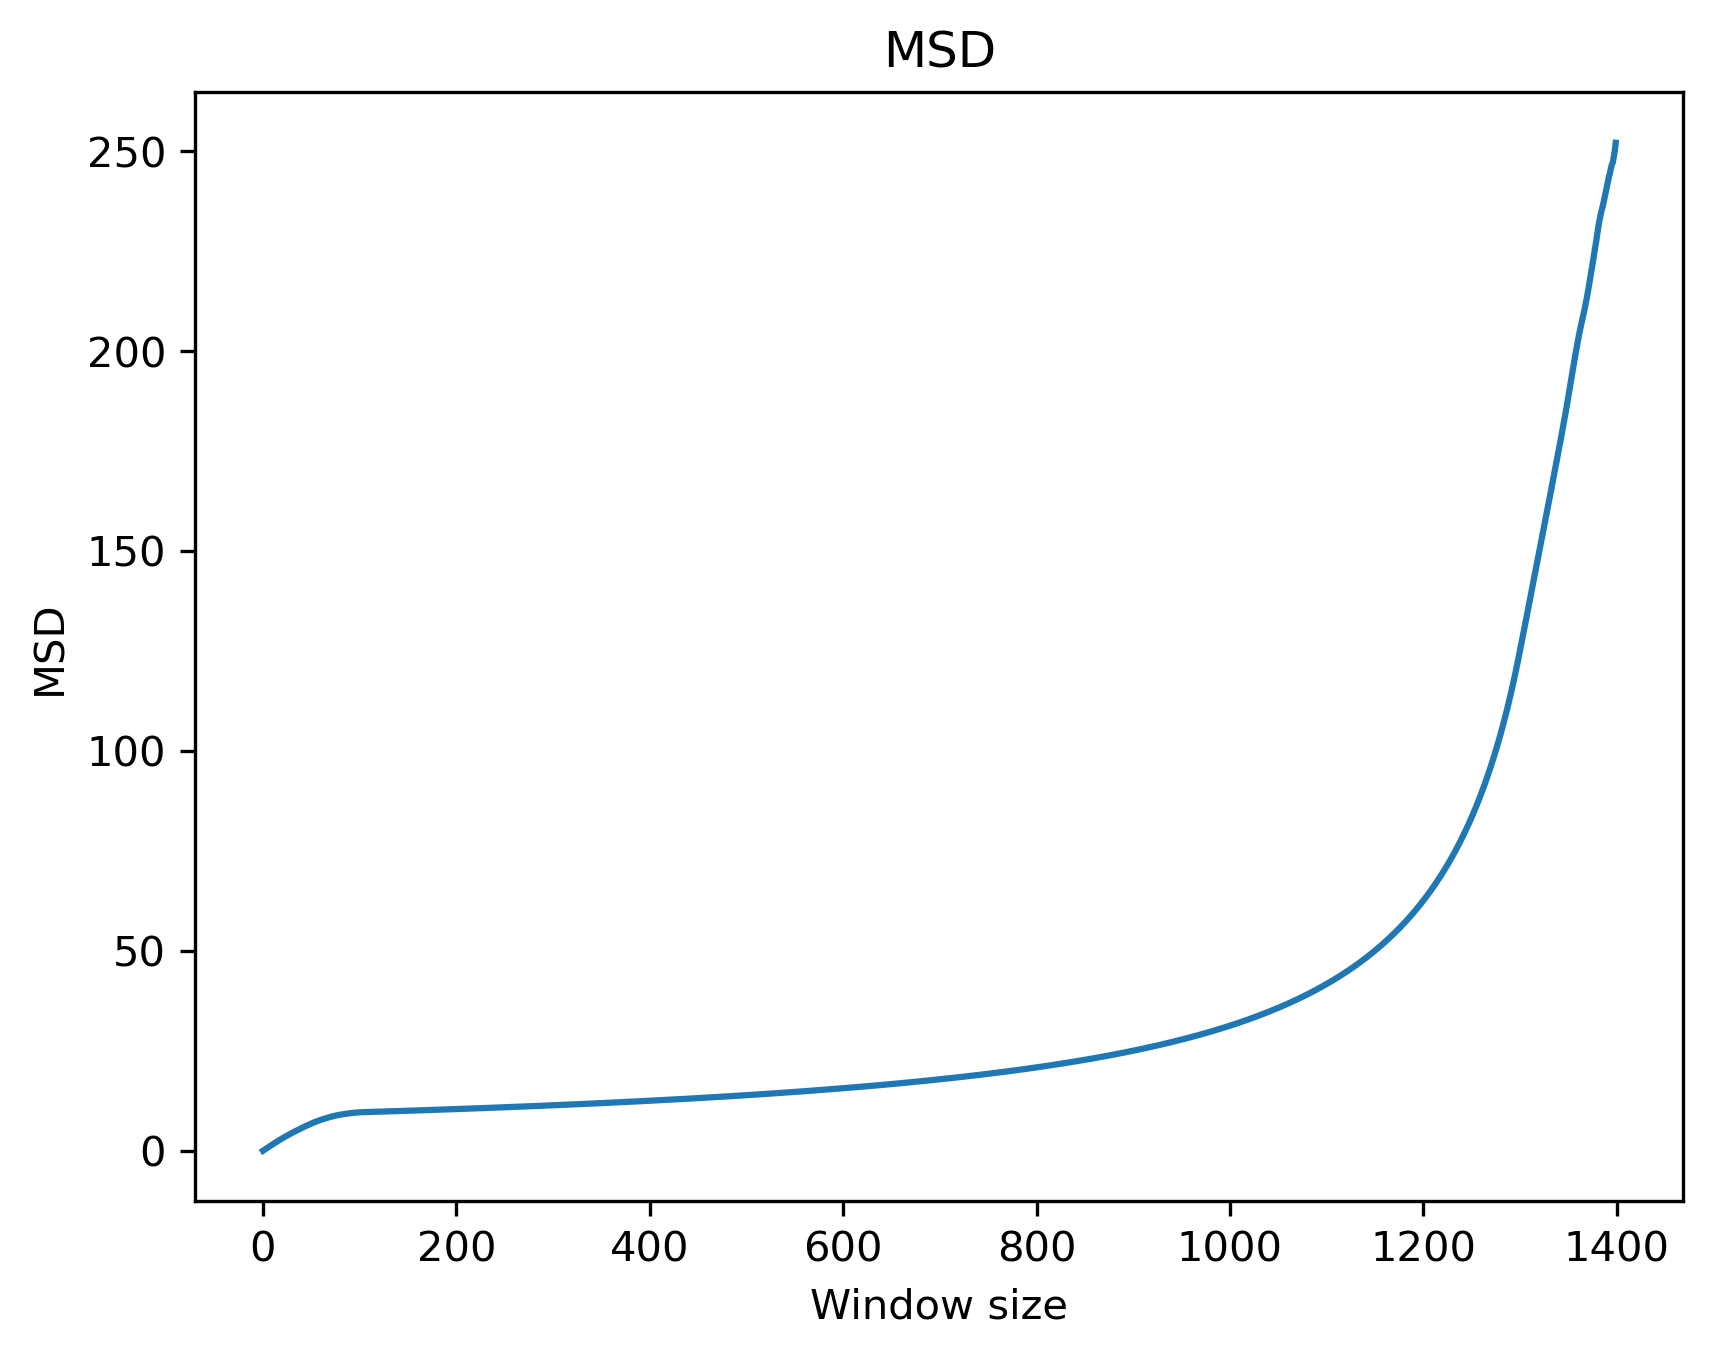
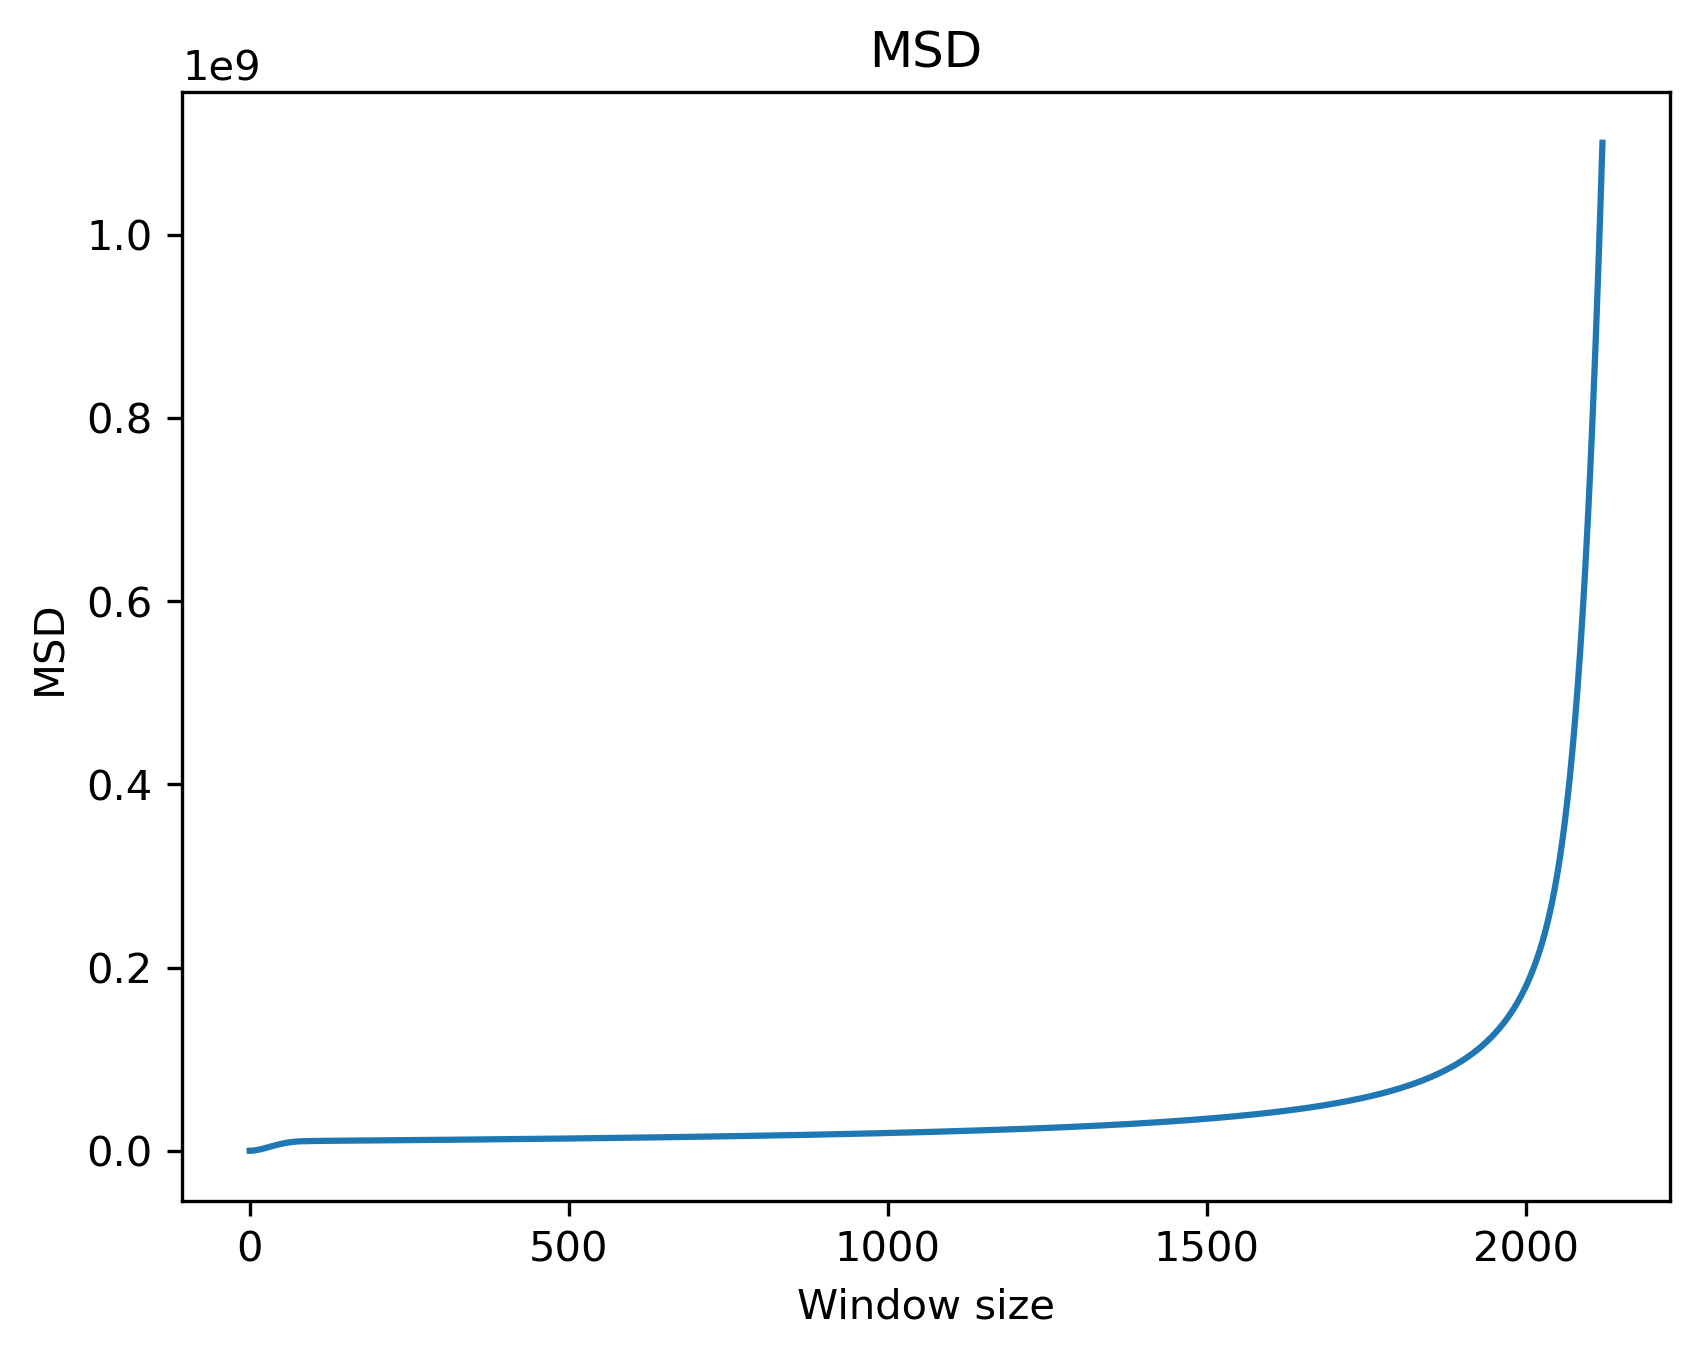
started validation code

diff --git a/init_solvent.py b/init_solvent.py
@@ -8,6 +8,76 @@ from sim import render
 from init import SOLUTE_main
 
 
+class VicsekAlignmentForce(hoomd.md.force.Custom):
+    def __init__(self, nlist, r_cut, f_a, active_type_name="A"):
+        super().__init__(aniso=False)
+        self.nlist = nlist
+        self.r_cut = r_cut
+        self.f_a = f_a
+        self.active_type_name = active_type_name
+
+    def set_forces(self, timestep):
+        state = self._simulation.state
+        
+        # Cache the ID on the class instance so we only look it up once (performance tip!)
+        if not hasattr(self, "_active_type_id"):
+            if self.active_type_name in state.particle_types:
+                self._active_type_id = state.particle_types.index(self.active_type_name)
+            else:
+                self._active_type_id = None
+                
+        if self._active_type_id is None:
+            return
+
+        # Open context managers for snapshot, forces, AND the neighbor list
+        with state.cpu_local_snapshot as snap, \
+             self.cpu_local_force_arrays as arrays, \
+             self.nlist.cpu_local_nlist_arrays as nlist_arrays:
+            
+            vel = snap.particles.velocity
+            typeids = snap.particles.typeid
+            
+            # Initialize all force arrays to 0 first
+            arrays.force[:] = 0.0
+            arrays.torque[:] = 0.0
+            arrays.potential_energy[:] = 0.0
+            arrays.virial[:] = 0.0
+
+            active_indices = numpy.where(typeids == self._active_type_id)[0]
+            if len(active_indices) == 0:
+                return
+
+            # Access the correct neighbor list arrays
+            head_list = nlist_arrays.head_list
+            n_neigh = nlist_arrays.n_neigh
+            nlist = nlist_arrays.nlist
+
+            # Compute Vicsek alignment only for the active particle indices
+            for i in active_indices:
+                # Get the slice indices for particle i's neighbors
+                start = head_list[i]
+                end = start + n_neigh[i]
+                
+                # Fetch the exact neighbors for particle i
+                idx_neighbors = nlist[start:end]
+                
+                # Filter out ghost particles (indices beyond the local velocity array size)
+                idx_neighbors = idx_neighbors[idx_neighbors < len(vel)]
+
+                # The Vicsek rule starts with the particle's own velocity
+                v_sum = vel[i].copy()
+                
+                if len(idx_neighbors) > 0:
+                    v_sum += numpy.sum(vel[idx_neighbors], axis=0)
+
+                v_mag = numpy.linalg.norm(v_sum)
+                if v_mag > 0:
+                    n_hat = v_sum / v_mag
+                    # Apply the force vector to the active index position
+                    arrays.force[i] = self.f_a * n_hat
+
+
+
 def IC_SOLVENT():
     with gsd.hoomd.open("./Frames/Active_IC.gsd") as traj:
         snapshot = hoomd.Snapshot.from_gsd_frame(traj[0], hoomd.communicator.Communicator())
@@ -20,10 +90,9 @@ def IC_SOLVENT():
     assert box.Lx == box.Ly == box.Lz, "The simulation box is not cubic!"
     L = box.Lx  # Single side length of the cube
 
-    snapshot.mpcd.types = ["A"]
+    snapshot.mpcd.types = ["S"]
     snapshot.mpcd.N = numpy.round((10/sigma**3) * box.volume).astype(int)
 
-# Generate uniform positions inside a cube centered at (0,0,0) from -L/2 to L/2
     snapshot.mpcd.position[:] = rng.uniform(
         low=-L / 2, high=L / 2, size=(snapshot.mpcd.N, 3)
     )
@@ -33,7 +102,7 @@ def IC_SOLVENT():
     vel -= numpy.mean(vel, axis=0)
     snapshot.mpcd.velocity[:] = vel
     
-    return snapshot,snapshot.particles.position,snapshot.particles.orientation,snapshot.mpcd.N,L
+    return snapshot,snapshot.particles.position,snapshot.particles.orientation,snapshot.mpcd.N,L,sigma
 
 
 def IO_SOLVENT(pos,orient,L)->None:
@@ -48,7 +117,7 @@ def IO_SOLVENT(pos,orient,L)->None:
     
     
     frame.particles.typeid = [0] * N_solute
-    frame.particles.types = ["A"]
+    frame.particles.types = ["S"]
     frame.configuration.box = [L, L, L, 0, 0, 0]
     
    
@@ -60,7 +129,7 @@ def IO_SOLVENT(pos,orient,L)->None:
 
 
 def SOLVENT_main():
-    snap,pos,orient,N,L = IC_SOLVENT()
+    snap,pos,orient,N,L,sigma = IC_SOLVENT()
     IO_SOLVENT(pos,orient,L)
     
     
@@ -76,11 +145,37 @@ def SOLVENT_main():
         simulation.operations.integrator = integrator
 
         cell = hoomd.md.nlist.Cell(buffer=0.4)
+
+        # 1. ForceShiftedLJ Force Setup
+        fslj = hoomd.md.pair.ForceShiftedLJ(nlist=cell, default_r_cut=1.5)
+        fslj.params[("A", "A")] = dict(epsilon=1.0, sigma=1.0)
+        # Add dummy params for the disabled pairs
+        fslj.params[("A", "S")] = dict(epsilon=0.0, sigma=0.0)
+        fslj.params[("S", "S")] = dict(epsilon=0.0, sigma=0.0)
+        fslj.r_cut[("A", "S")] = False
+        fslj.r_cut[("S", "S")] = False
+        integrator.forces.append(fslj)
+        
+        # 2. WCA (Solute-Solvent) Force Setup
         wca = hoomd.md.pair.LJ(nlist=cell)
-        wca.params[("A", "A")] = dict(epsilon=1.0, sigma=1.0)
-        wca.r_cut[("A", "A")] = 2 ** (1.0 / 6.0)
+        wca.params[("A", "S")] = dict(epsilon=1.0, sigma=1.0)
+        # Add dummy params for the disabled pairs
+        wca.params[("A", "A")] = dict(epsilon=0.0, sigma=0.0)
+        wca.params[("S", "S")] = dict(epsilon=0.0, sigma=0.0)
+        wca.r_cut[("A", "S")] = 2 ** (1.0 / 6.0)
+        wca.r_cut[("A", "A")] = False
+        wca.r_cut[("S", "S")] = False
         integrator.forces.append(wca)
 
+        # 3. Custom Force Setup
+        vicsek_force = VicsekAlignmentForce(
+            nlist=cell, 
+            r_cut=1.5, 
+            f_a=2.0, 
+            active_type_name="A" 
+        )
+        integrator.forces.append(vicsek_force)
+        
         nve = hoomd.md.methods.ConstantVolume(filter=hoomd.filter.All())
         integrator.methods.append(nve)
 

diff --git a/clustering.py b/clustering.py
@@ -1,0 +1,61 @@
+# script1.py
+import time
+import gsd.hoomd
+import os
+import freud
+
+def LOAD():
+    trajectory_path = 'sim_finish.gsd'
+    
+    # Check physical file traits first
+    print(f"File physical path check: {os.path.abspath(trajectory_path)}") ##if block exit here
+    print(f"Does it exist? {os.path.exists(trajectory_path)}") ##if block here to exit
+    if os.path.exists(trajectory_path):
+        print(f"File Size: {os.path.getsize(trajectory_path)} bytes")
+
+    try:
+        with gsd.hoomd.open(name=trajectory_path, mode='r') as traj:
+           ##checks to ensure proper loading
+            print(f"Success opening file! Total frames found: {len(traj)}")
+            
+            if len(traj) == 0:
+                print("Error: Trajectory is empty.")
+                return 400
+                
+            frame = traj[-1]
+            print("--- FRAME DATA ---")
+            
+            
+            # Using getattr to safely check properties if it's an old schema version
+            print("Particles count:", len(frame.particles.position))
+            ##checks to ensure proper loading
+
+            ##load sim data
+            box = freud.box.Box.from_box(frame.configuration.box)
+            positions = frame.particles.position
+            print(f"Loaded {len(positions)} particles from the GSD file.")
+            print(f"Simulation box dimensions: {box}")
+            ##load sim data
+
+            ##compute clustering
+            cl = freud.cluster.Cluster()
+            cl.compute(system=(box, positions), neighbors={'r_max': 1.2})
+    
+            print(f"Found {cl.num_clusters} clusters in this frame.")
+            ##compute clustering
+            return 200
+
+    except Exception as e:
+        # error type
+        print(f"\n!!! CRITICAL ERROR DURING GSD LOAD !!!")
+        print(f"Error Type: {type(e).__name__}")
+        print(f"Error Message: {e}")
+        return 400
+    
+   
+
+if __name__ == "__main__":
+    if LOAD() == 400:
+        print("Error Mod1")
+    else:
+        print("success Mod1")

diff --git a/parallel.py b/parallel.py
@@ -1,0 +1,17 @@
+import threading
+import subprocess
+
+def run_script(script_name):
+    subprocess.run(["python", script_name])
+
+if __name__ == "__main__":
+    script1_thread = threading.Thread(target=run_script, args=("clustering.py",))
+    script2_thread = threading.Thread(target=run_script, args=("script2.py",))
+
+    script1_thread.start()
+    script2_thread.start()
+
+    script1_thread.join()
+    script2_thread.join()
+
+    print("Both scripts have finished executing.")

diff --git a/main.py b/main.py
@@ -4,6 +4,9 @@ import hoomd
 import sys
 import importlib.metadata
 import matplotlib.pyplot as plt
+from sim import render
+
+
 try:
     import freud
     import gsd
@@ -34,12 +37,18 @@ if __name__ == "__main__":
     )
     sim2.operations.writers.append(gsd_writer)
     sim2.run(200000)
+    snapshot = sim2.state.get_snapshot()
+    positions = snapshot.particles.position
+    orientations = snapshot.particles.orientation
+    box_length = snapshot.configuration.box
+    image_fin = render(positions,orientations,box_length)
+    image_fin.save("./Renders/final_image.png")
 
     print("simulation complete,opening writer")
     sim2.operations.writers.remove(gsd_writer)
     del gsd_writer
 
-    with gsd.hoomd.open("sim_finish.gsd") as traj:
+    with gsd.hoomd.open("./Frames/sim_finish.gsd") as traj:
         num_frames = len(traj)
         N = traj[0].particles.N
         positions = numpy.zeros((num_frames, N, 3), dtype=float)

diff --git a/script2.py b/script2.py
@@ -1,0 +1,11 @@
+# script2.py
+import time
+
+def script2_function():
+    print("init1")
+    time.sleep(5)
+    print("init2")
+    time.sleep(5)
+
+if __name__ == "__main__":
+    script2_function()

diff --git a/init.py b/init.py
@@ -50,22 +50,19 @@ def IO(pos,orient,N,L)->None:
 
 def SOLUTE_main():
     try:
-        # 1. Generate the initial condition positions, orientations, etc.
+       
         pos, orient, N, L = IC()
-        
-        # 2. Run your file handling and rendering pipeline
         IO(pos, orient, N, L)
-        
         print("Solute initialization completed successfully!")
 
     except Exception as e:
         print(f"\n[Error] SOLUTE_main failed during execution!")
         print(f"Reason: {e}")
         print("-" * 50)
-        # This prints the exact line number and file where the crash happened
+        
         traceback.print_exc()
         print("-" * 50)
         
-        # Gracefully exit with a failure code
+        
         sys.exit(1)
 